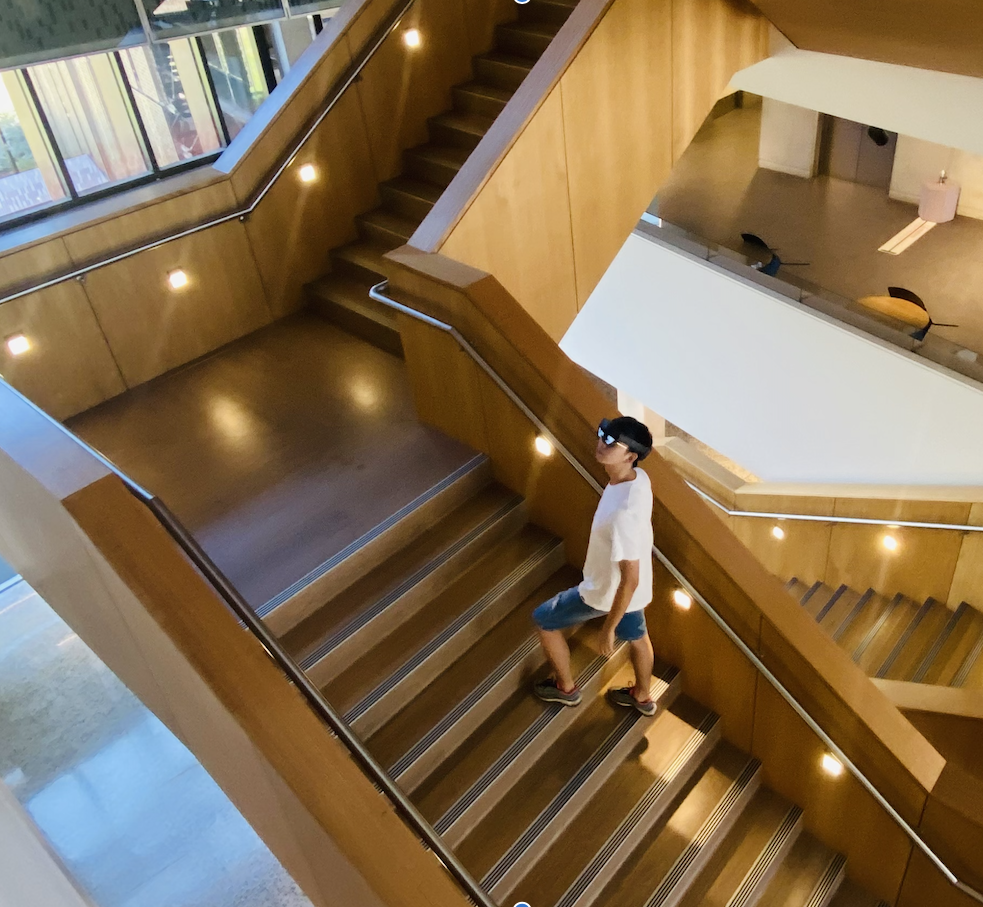
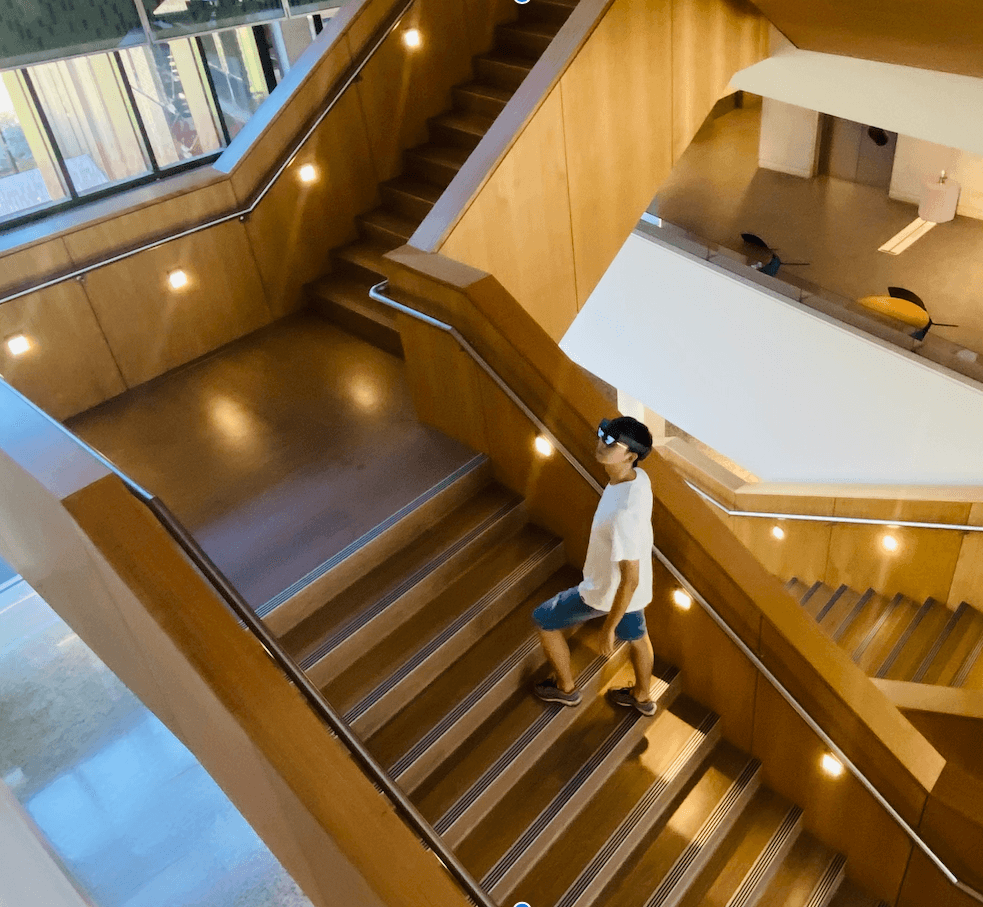
compress img sizes

diff --git a/work.md b/work.md
@@ -8,7 +8,7 @@ items:
     image:
       src: /assets/img/work/cbs-performance.png
       alt: cubing-sound-performance
-    description: First time using CubingSound to improvise at the ANU SoM O-week showcase
+    description: First time using CubingSound to improvise at the ANU SoM O-week showcase.
 
   - title: "Cubing Sound : A NIME (New Interface for Musical Expression) for Head-mounted Augmented Reality"
     link: https://youtu.be/H6W1AIHlQIg
